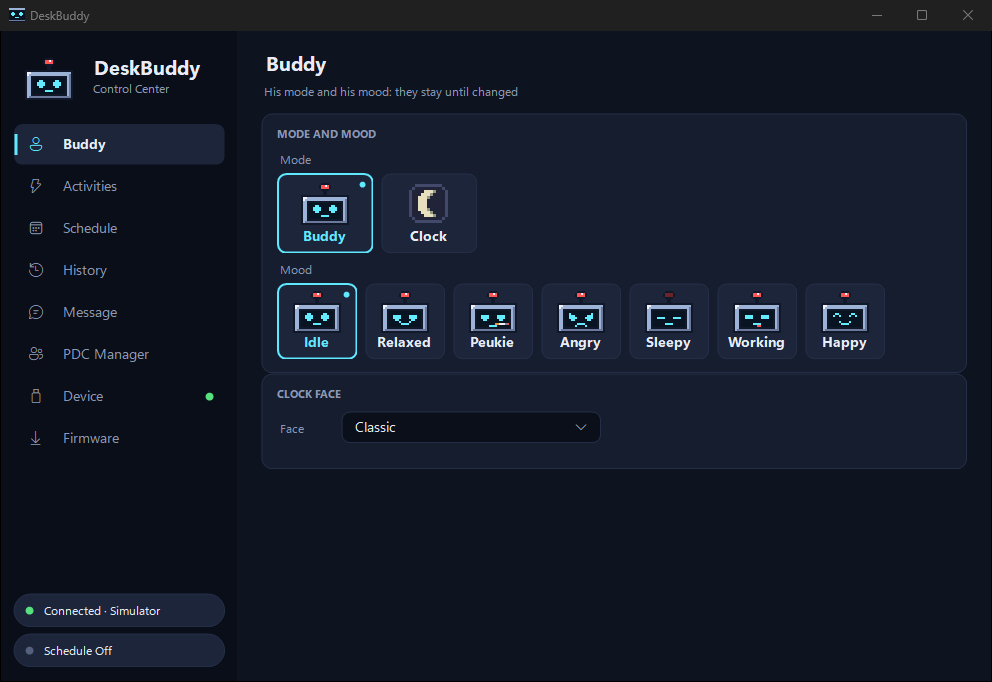
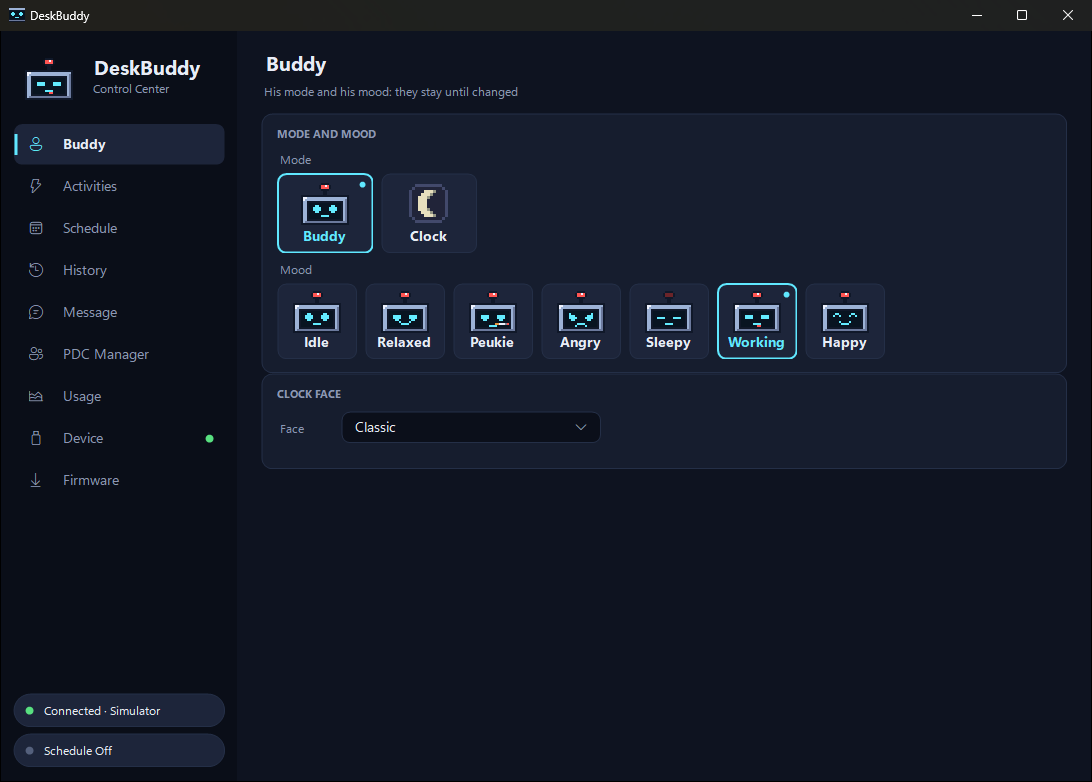
README screenshots retaken from the current code (0ece97e): Companion with the Usage page, the usage strips
- Companion pages (Buddy, Schedule, History, Message) from the current build, with Usage in the sidebar; a Usage
  row: the Companion's Usage page (PC load on) and Buddy with both strips (snapshot usage_sysinfo.png)
- GIFs (Monster, the zoom into Clock Mode) and MY DAY recaptured from the simulator; the snapshot renders are
  unchanged; companion-activities.png removed (not used)

Claude-Session: https://claude.ai/code/session_01CQi2qVDfRBGq6qbnzNiYdJ

diff --git a/README.md b/README.md
@@ -105,10 +105,18 @@ messages, runs a weekly schedule and keeps a history of what he did and what you
     <td><b>History:</b> your day as Buddy's journal, with his questions and your answers.</td>
     <td><b>Message:</b> type it, press Enter, watch it scroll.</td>
   </tr>
+  <tr>
+    <td><img src="docs/images/companion-usage.png" alt="Control Center: the Usage page with Claude usage off and PC load on"></td>
+    <td><img src="docs/images/usage-strips.png" alt="Buddy with two strips under his stage: CPU, RAM and disk, and Claude's 5-hour and 7-day usage"></td>
+  </tr>
+  <tr>
+    <td><b>Usage</b> (optional, off by default): this PC's load and your Claude plan's usage...</td>
+    <td>...as small strips under Buddy, also in Clock Mode.</td>
+  </tr>
 </table>
 
-Optionally it shows your Claude usage and this PC's load as small strips under Buddy. It also updates his firmware
-(signed packages, with a backup first), can live in the notification area and start with Windows. Details: [docs/companion.md](docs/companion.md).
+It also updates his firmware (signed packages, with a backup first), can live in the notification area and start with
+Windows. Details: [docs/companion.md](docs/companion.md).
 
 ## Getting started
 
